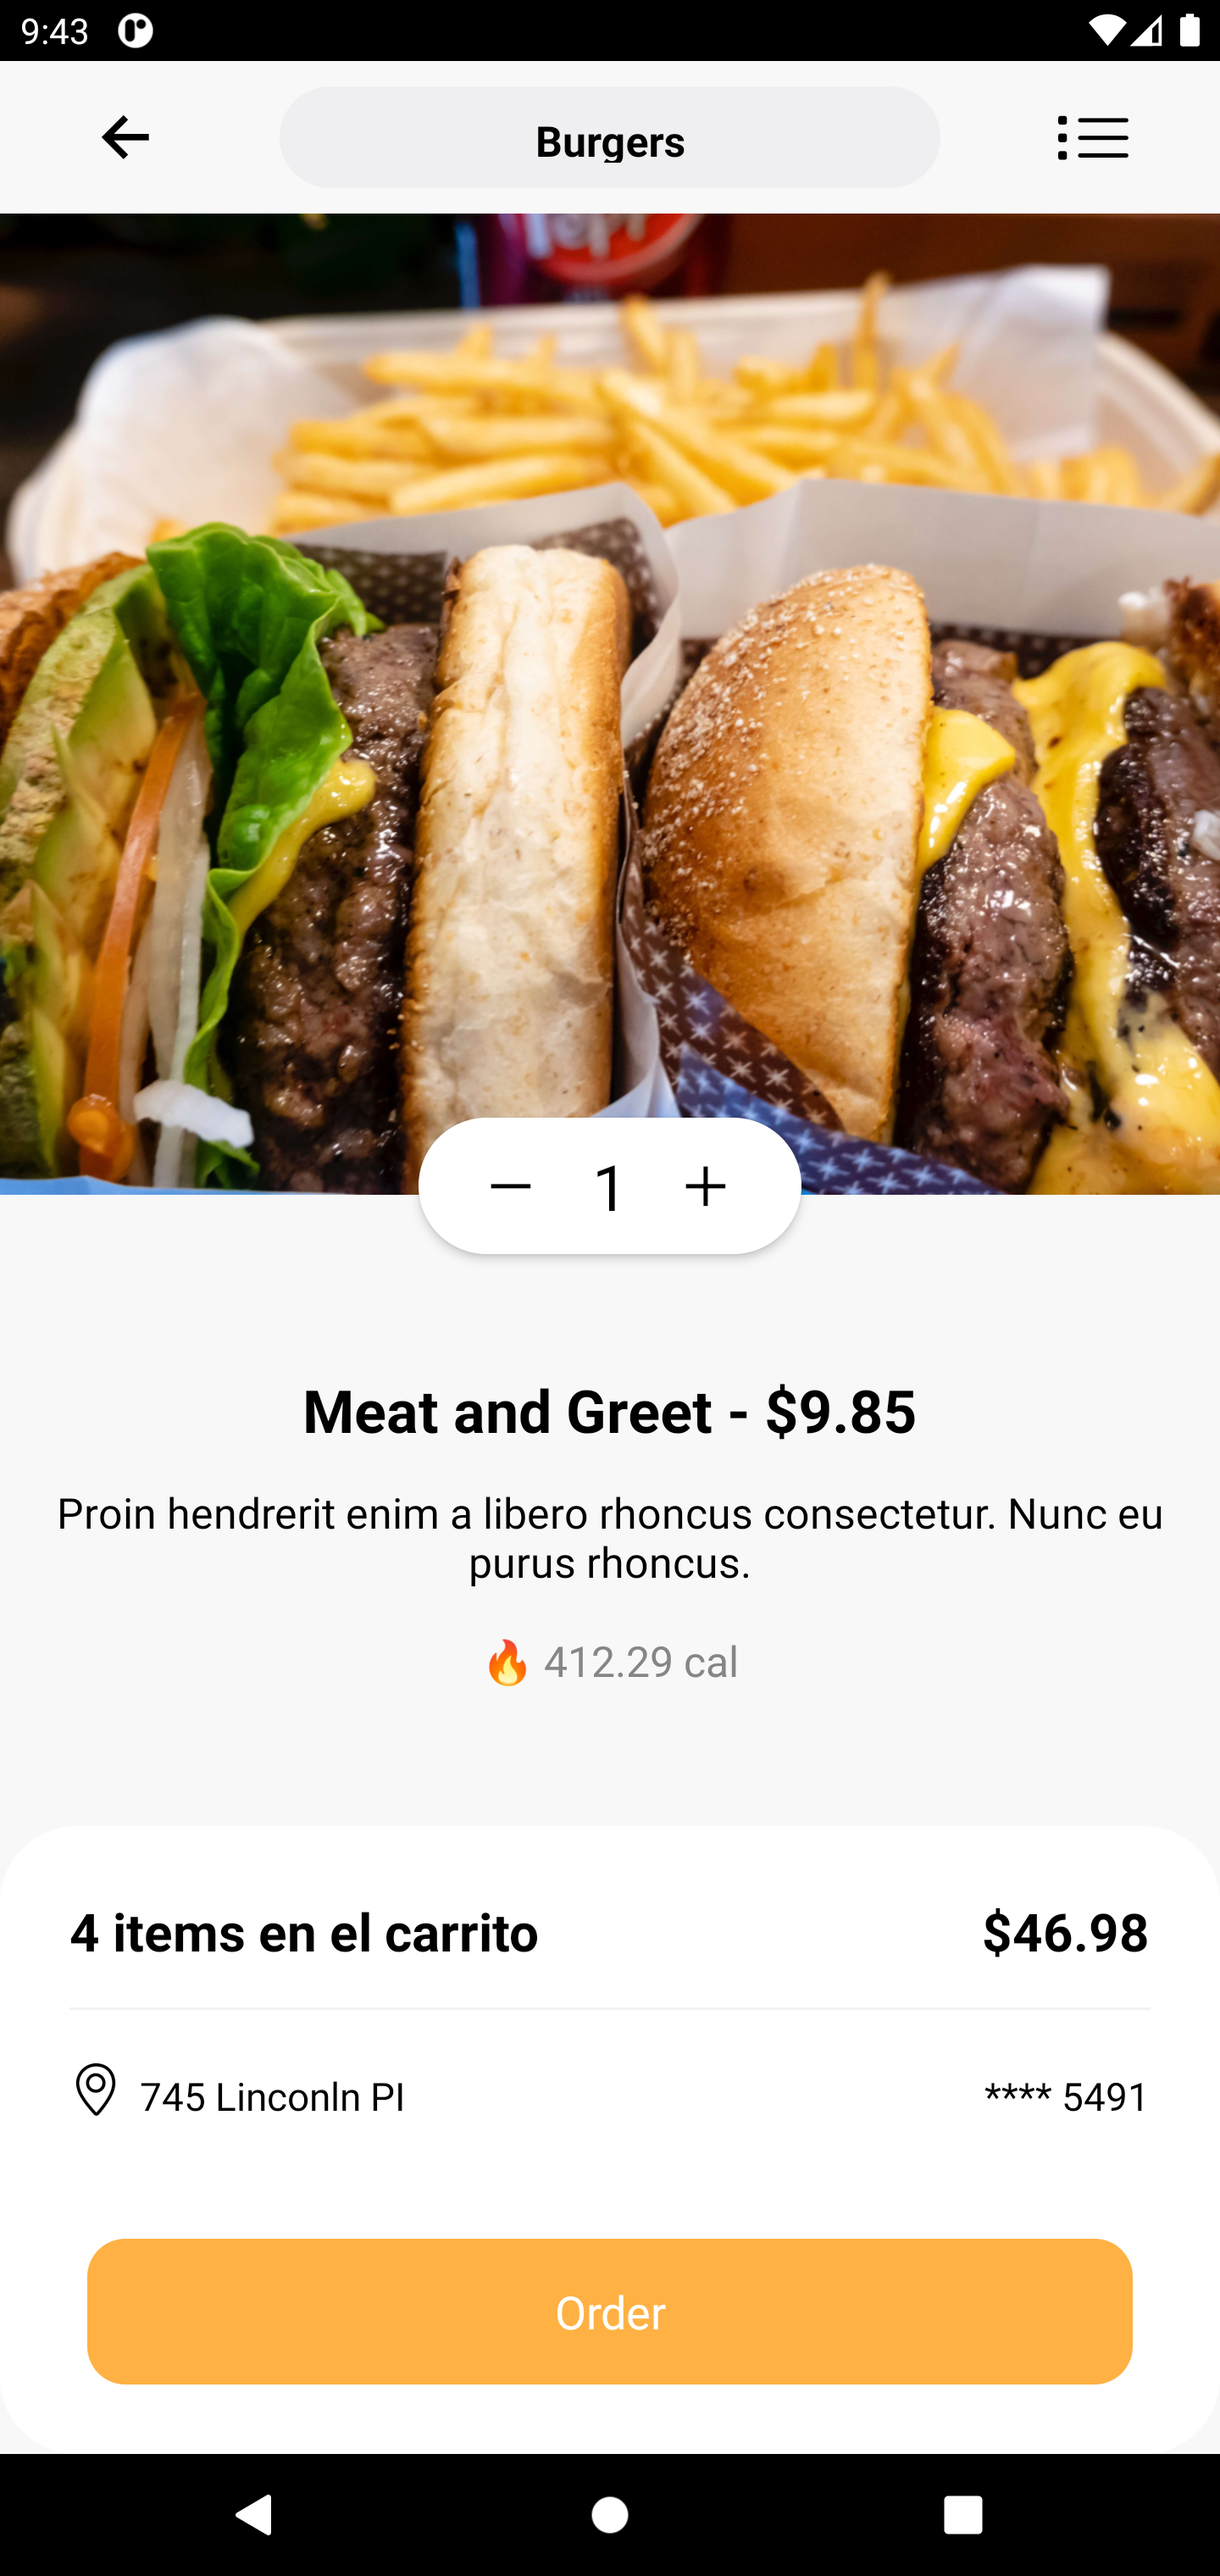
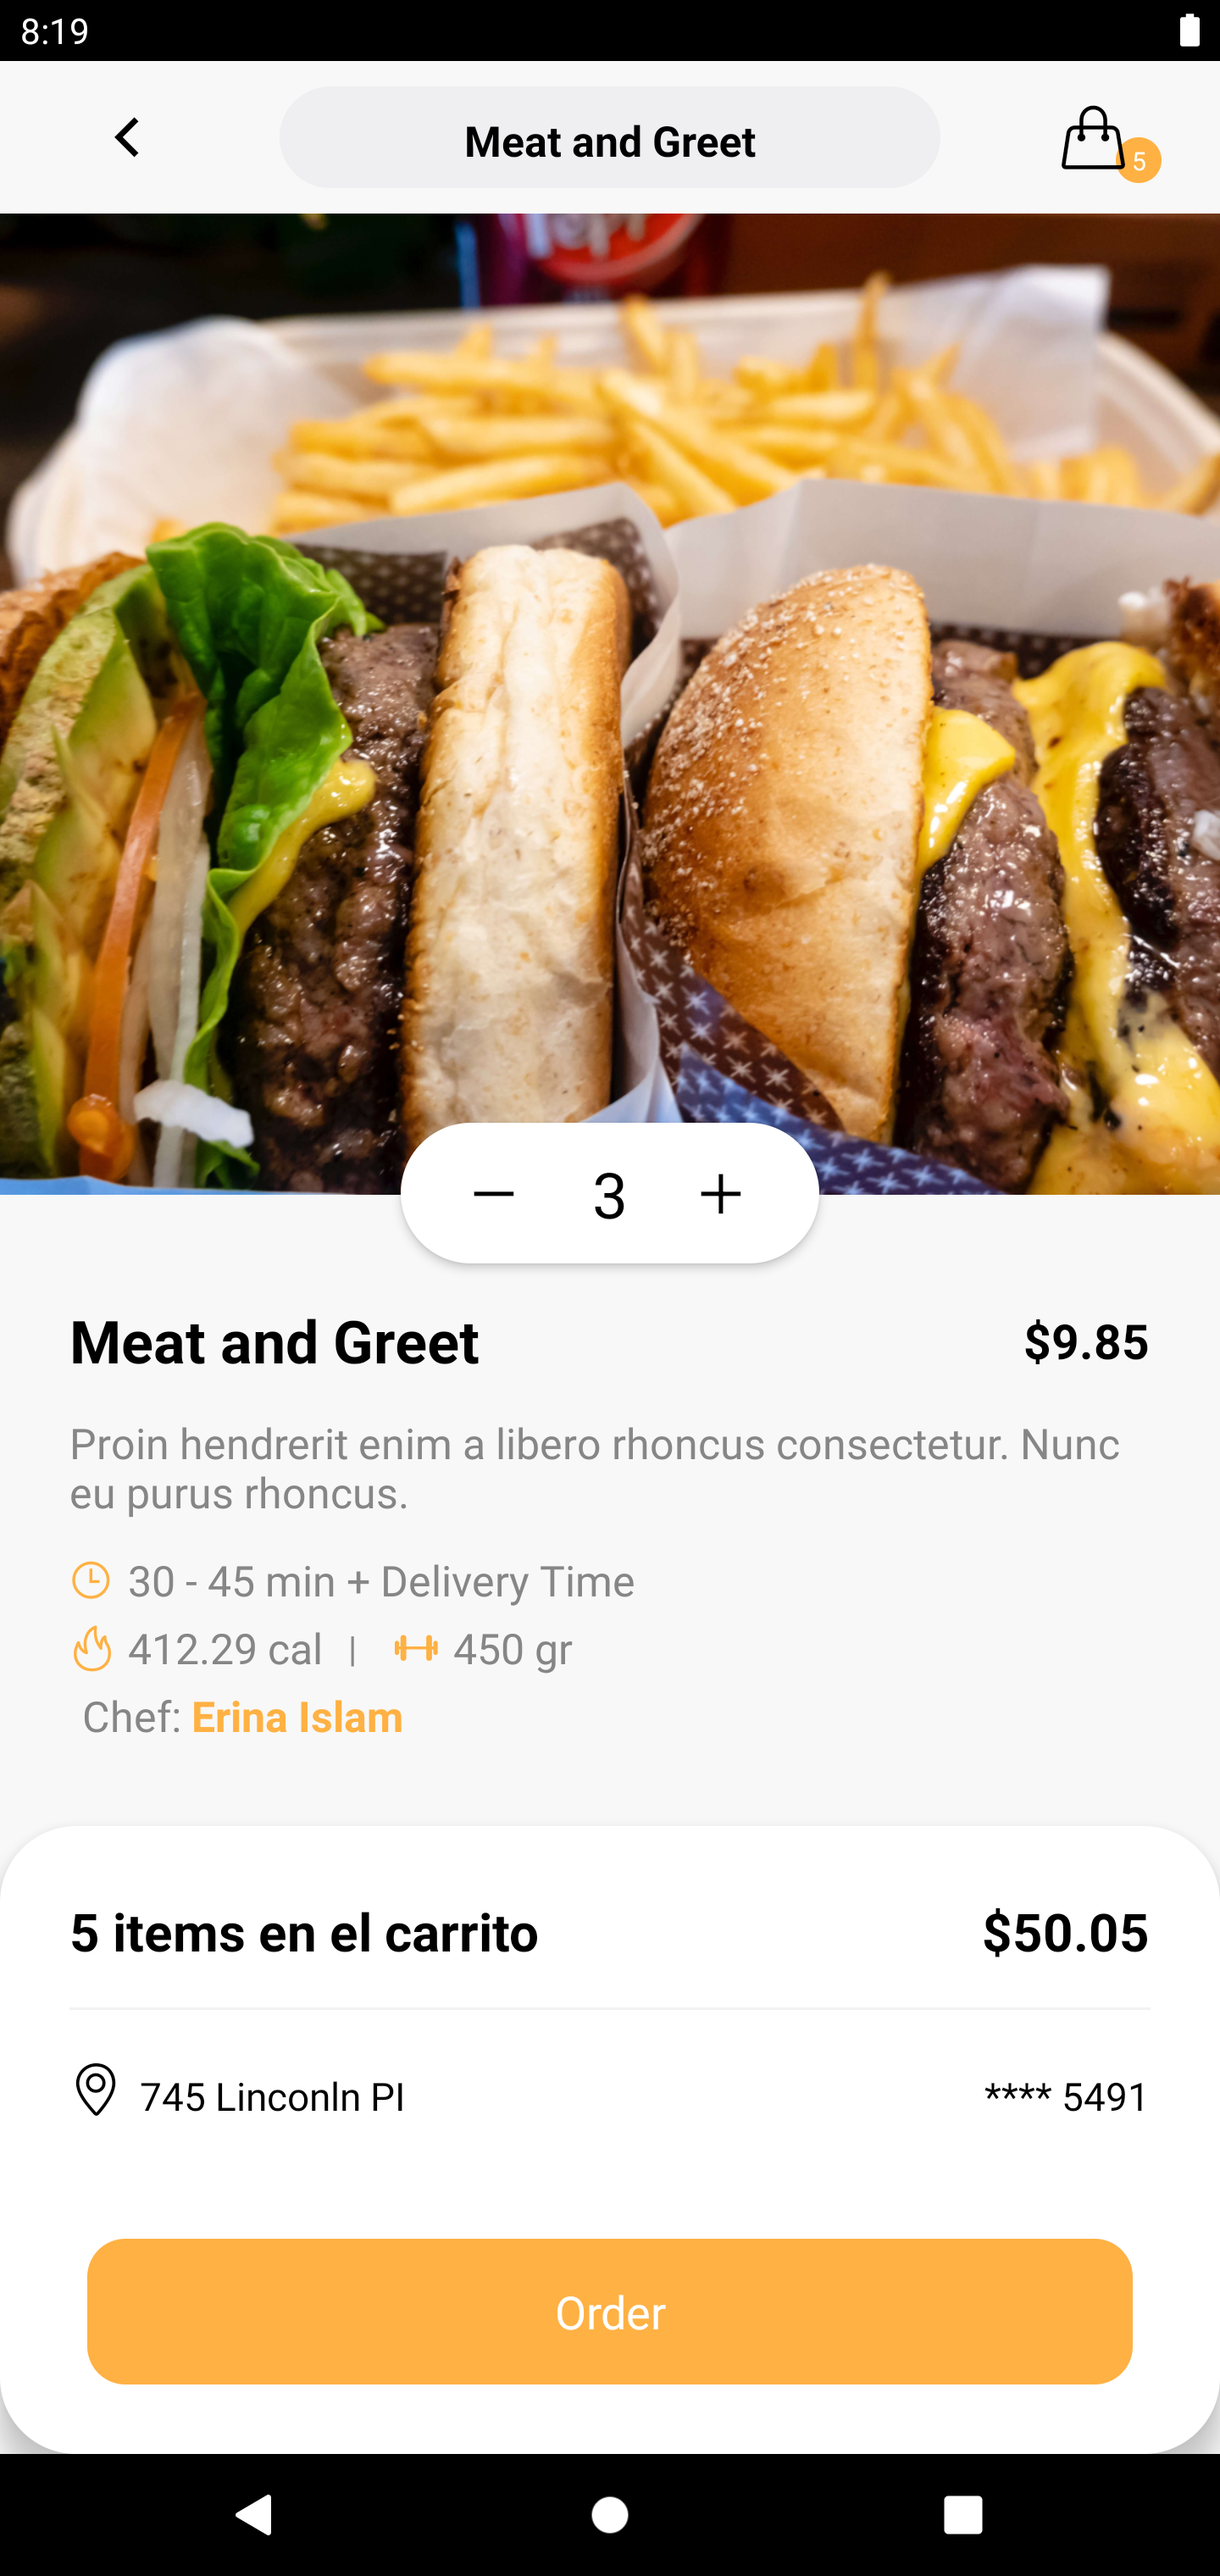
New pictures

diff --git a/frontend/src/screens/DetailScreen.tsx b/frontend/src/screens/DetailScreen.tsx
@@ -70,7 +70,7 @@ const DetailScreen = ({navigation, route}: Props) => {
           ...globalStyles.globalMargin,
         }}>
         <Header
-          title="Burgers"
+          title={hamburguesa_nom}
           nameIconLeft="chevron-back-outline"
           onPressLeft={() => navigation.goBack()}
           onPressRight={() => console.log('Ajustes')}
